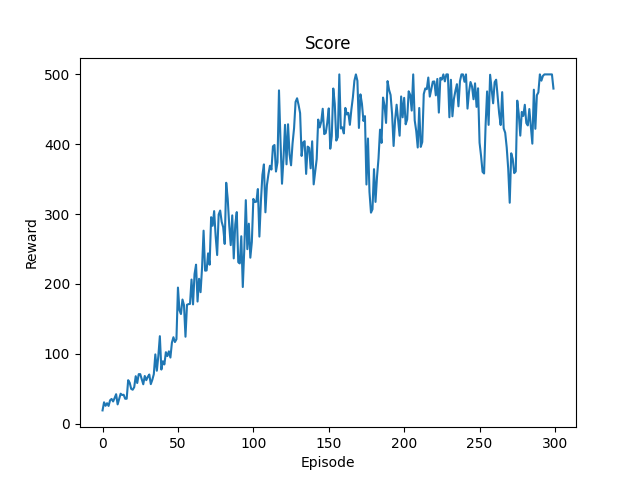
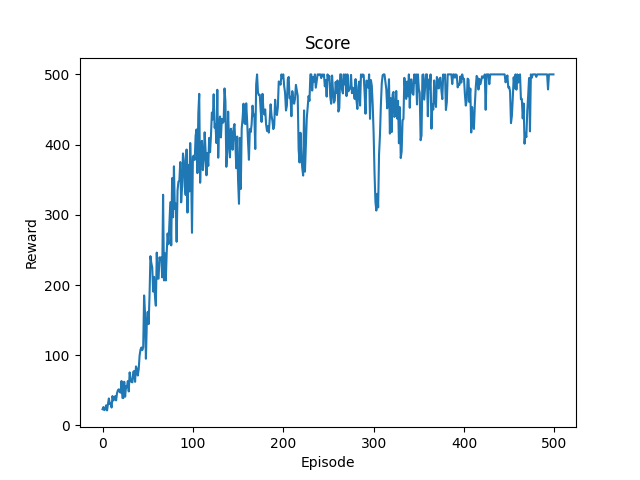
PPO nice graphs

diff --git a/PGO/algorithms/PPO.py b/PGO/algorithms/PPO.py
@@ -46,6 +46,8 @@ class PPO():
         self.critic_loss_history = []
         self.scores_history = []
         self.window = deque(maxlen=self.early_stopping_window)
+
+        self.clipped_gradient_counter = [0]
         
     
     def optimize(self):   
@@ -86,6 +88,12 @@ class PPO():
             surr2 = torch.clamp(ratios, 1-self.eps_clip, 1+self.eps_clip) * advantages.detach()
             # MseLoss is for the update of critic, dist_entropy denotes an entropy bonus
             new_policy_loss = -torch.min(surr1, surr2)
+
+            #TODO: REMOVE
+            for i in range(len(surr2)):
+                if surr1[i] != surr2[i]:
+                    self.clipped_gradient_counter.append(self.clipped_gradient_counter[-1]+1)
+                else: self.clipped_gradient_counter.append(self.clipped_gradient_counter[-1])
 
             critic_loss = 0.5*self.MseLoss(state_values, rewards)
             
@@ -166,34 +174,54 @@ class PPO():
     def plot(self, plot_scores=True, plot_critic_loss=True, plot_actor_loss=True):
         PATH = os.path.abspath(__file__)
 
+        
         if plot_scores is True:
             window_size = 10
             smoothed_data = np.convolve(self.scores_history, np.ones(window_size)/window_size, mode='valid')
             plt.plot(smoothed_data)
+            ax = plt.gca()
+            ax.set_xlim([0, 3000])
             plt.title("Score")
             plt.xlabel("Episode")
             plt.ylabel("Reward")
-            plt.savefig("PGO/res/PPO/score.png")
+            plt.savefig("PGO/res/PPO/score_0.01.png")
             plt.clf()
 
         if plot_critic_loss is True:
             window_size = 5
             smoothed_data = np.convolve(self.critic_loss_history, np.ones(window_size)/window_size, mode='valid')
             plt.plot(smoothed_data)
+            ax = plt.gca()
+            ax.set_xlim([0, 700])
             plt.title("Value function loss")
             plt.xlabel("Episode")
             plt.ylabel("Loss")
-            plt.savefig("PGO/res/PPO/critic_loss.png")
+            plt.savefig("PGO/res/PPO/critic_loss_0.01.png")
             plt.clf()
 
         if plot_actor_loss is True:
             window_size = 5
             smoothed_data = np.convolve(self.policy_loss_history, np.ones(window_size)/window_size, mode='valid')
             plt.plot(smoothed_data)
+            ax = plt.gca()
+            ax.set_xlim([0, 700])
             plt.title("Policy function loss")
             plt.xlabel("Episode")
             plt.ylabel("Loss")
-            plt.savefig("PGO/res/PPO/policy_loss.png")
+            plt.savefig("PGO/res/PPO/policy_loss_0.01.png")
+            plt.clf()
+        
+        if plot_actor_loss is True:
+            window_size = 1
+            smoothed_data = np.convolve(self.clipped_gradient_counter, np.ones(window_size)/window_size, mode='valid')
+            plt.plot(self.clipped_gradient_counter)
+            ax = plt.gca()
+            ax.set_xlim([0, 1.2e6])
+            ax.set_ylim([0, 800000])
+            plt.title("Clipped Gradient Counter")
+            plt.xlabel("Steps")
+            plt.ylabel("Clips")
+            plt.savefig("PGO/res/PPO/clipped_gradient_0.01.png")
             plt.clf()
 
         
@@ -213,7 +241,7 @@ def main():
     betas = (0.9, 0.999)
     gamma = 0.99                # discount factor
     K_epochs = 4                # update policy for K epochs
-    eps_clip = 0.2              # clip parameter for PPO
+    eps_clip = 0.01             # clip parameter for PPO
     early_stopping_window = 20
     #############################################
     

diff --git a/PGO/algorithms/reinforce_Gt.py b/PGO/algorithms/reinforce_Gt.py
@@ -175,7 +175,7 @@ env = gym.make('CartPole-v1', render_mode=None)
 
 solved_reward = 500
 early_stopping_window = 20
-trainer = Reinforce(env=env, lr=0.001, n_trajectories=10, n_episodes=300, gamma=0.99, solved_reward=solved_reward, early_stopping_window=early_stopping_window)
+trainer = Reinforce(env=env, lr=0.001, n_trajectories=10, n_episodes=500, gamma=0.99, solved_reward=solved_reward, early_stopping_window=early_stopping_window)
 trainer.train()
 trainer.plot_rewards()
 env.close()
